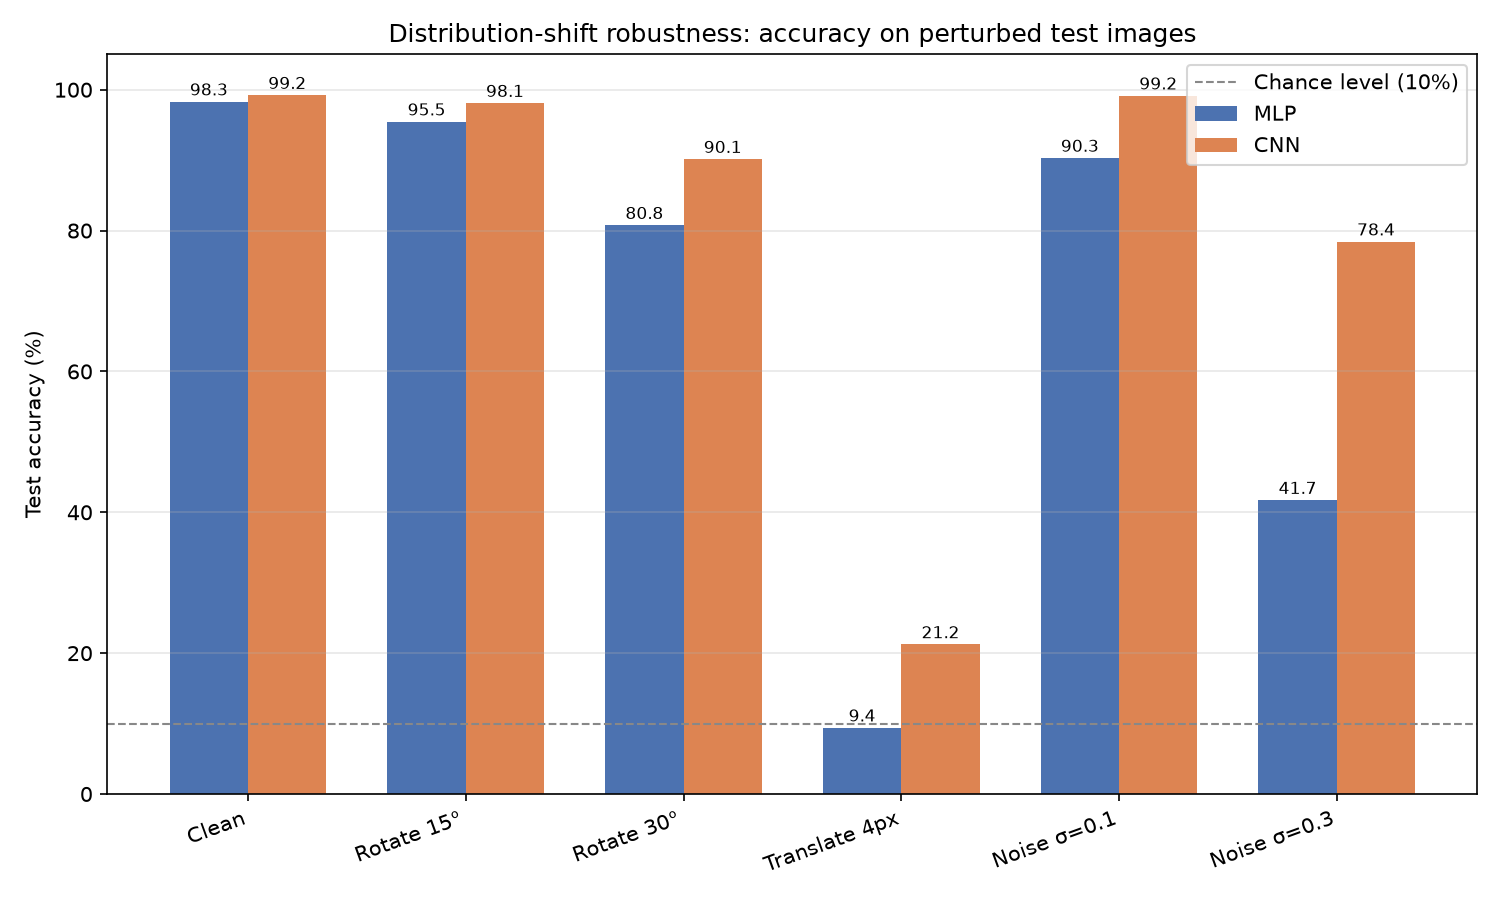
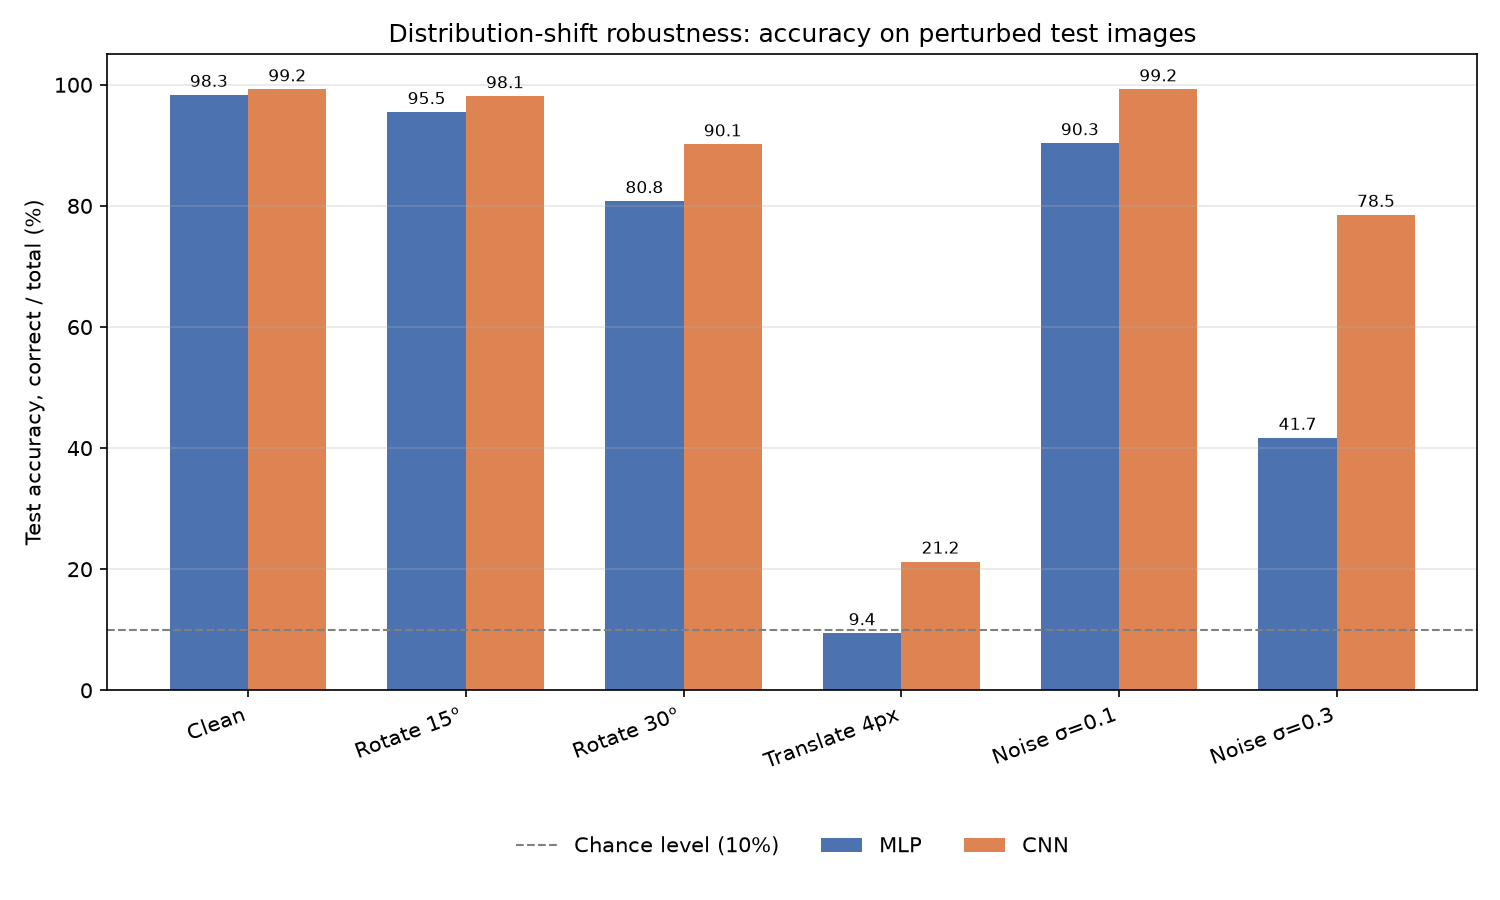
Add script regenerating the distribution-shift table and plot
The plotting code for results/shift_robustness.png wasn't in the repo. scripts/shift_robustness.py computes the seeded table from the committed checkpoints and redraws the plot (same design, y-axis labelled as plain accuracy, legend no longer covering a bar). A regression test pins the table to the README values.

diff --git a/scripts/shift_robustness.py b/scripts/shift_robustness.py
@@ -1,0 +1,92 @@
+"""Regenerates the distribution-shift results: evaluates the committed MLP and
+CNN checkpoints on clean and perturbed test images, prints the README table,
+and saves results/shift_robustness.png.
+
+Deterministic: run_shift_robustness seeds its noise, so the same checkpoints
+and data always give the same numbers. Needs the real data in data/train.csv.
+
+Usage:
+    python scripts/shift_robustness.py
+"""
+from __future__ import annotations
+
+import sys
+from dataclasses import replace
+from pathlib import Path
+
+import matplotlib
+
+matplotlib.use("Agg")
+import matplotlib.pyplot as plt
+
+PROJECT_ROOT = Path(__file__).resolve().parent.parent
+sys.path.insert(0, str(PROJECT_ROOT))
+
+from src.config import ExperimentConfig  # noqa: E402
+from src.data_module import MNISTDataModule  # noqa: E402
+from src.model import load_model  # noqa: E402
+from src.robustness import run_shift_robustness  # noqa: E402
+
+MODELS = {
+    "MLP": ("configs/best_from_search.yaml", "results/mlp_best_from_search.ckpt"),
+    "CNN": ("configs/cnn_best_from_search.yaml", "results/cnn_best_from_search.ckpt"),
+}
+LABELS = {
+    "clean": "Clean",
+    "rotate_15deg": "Rotate 15°",
+    "rotate_30deg": "Rotate 30°",
+    "translate_4px": "Translate 4px",
+    "noise_sigma0.1": "Noise σ=0.1",  # noqa: RUF001 (Greek sigma, as in the README)
+    "noise_sigma0.3": "Noise σ=0.3",  # noqa: RUF001
+}
+COLORS = {"MLP": "#4C72B0", "CNN": "#DD8452"}
+OUTPUT = PROJECT_ROOT / "results" / "shift_robustness.png"
+
+
+def compute() -> dict[str, dict[str, float]]:
+    results = {}
+    for name, (config_path, checkpoint) in MODELS.items():
+        config = ExperimentConfig.from_yaml(PROJECT_ROOT / config_path)
+        data_config = replace(config.data, data_dir=str(PROJECT_ROOT / config.data.data_dir), num_workers=0)
+        data_module = MNISTDataModule(data_config)
+        data_module.setup()
+        model = load_model(config, str(PROJECT_ROOT / checkpoint))
+        results[name] = run_shift_robustness(model, data_module.test_dataloader())
+    return results
+
+
+def plot(results: dict[str, dict[str, float]], output: Path) -> None:
+    keys = list(LABELS)
+    width = 0.36
+    fig, ax = plt.subplots(figsize=(10, 6))
+    for i, (name, scores) in enumerate(results.items()):
+        xs = [k + (i - 0.5) * width for k in range(len(keys))]
+        values = [scores[key] * 100 for key in keys]
+        bars = ax.bar(xs, values, width, label=name, color=COLORS[name])
+        ax.bar_label(bars, fmt="%.1f", padding=2, fontsize=8)
+    ax.axhline(10, color="gray", linestyle="--", linewidth=1, label="Chance level (10%)")
+    ax.set_xticks(range(len(keys)), [LABELS[key] for key in keys], rotation=20, ha="right")
+    ax.set_ylabel("Test accuracy, correct / total (%)")
+    ax.set_ylim(0, 105)
+    ax.set_title("Distribution-shift robustness: accuracy on perturbed test images")
+    ax.grid(axis="y", alpha=0.3)
+    ax.legend(loc="upper center", bbox_to_anchor=(0.5, -0.2), ncol=3, frameon=False)
+    fig.tight_layout()
+    fig.savefig(output, dpi=150)
+
+
+def main() -> None:
+    # Windows consoles default to a legacy code page that can't print the
+    # Greek sigma or the degree sign in the labels.
+    sys.stdout.reconfigure(encoding="utf-8")
+    results = compute()
+    print("| Perturbation | " + " | ".join(results) + " |")
+    print("|---|" + "---|" * len(results))
+    for key, label in LABELS.items():
+        print(f"| {label} | " + " | ".join(f"{scores[key]:.2%}" for scores in results.values()) + " |")
+    plot(results, OUTPUT)
+    print(f"Saved {OUTPUT.relative_to(PROJECT_ROOT)}")
+
+
+if __name__ == "__main__":
+    main()

diff --git a/tests/test_regression.py b/tests/test_regression.py
@@ -1,6 +1,7 @@
 """Regression tests: the committed checkpoints, evaluated on the real Kaggle
-data, must still reproduce the test-set numbers published in the README, and
-predict() must still recognise real digits redrawn as photo-like images.
+data, must still reproduce the numbers published in the README (the results
+table and the seeded distribution-shift table), and predict() must still
+recognise real digits redrawn as photo-like images.
 
 Needs data/train.csv, so it is skipped in CI and on fresh clones; run it
 locally after any change to data loading, cleaning, splitting or the model.
@@ -18,6 +19,7 @@ from src.config import ExperimentConfig
 from src.data_module import MNISTDataModule
 from src.model import load_model
 from src.predict import predict
+from src.robustness import run_shift_robustness
 from tests.conftest import REPO_ROOT
 
 DATA_DIR = REPO_ROOT / "data"
@@ -86,3 +88,25 @@ def test_predict_handles_photo_like_images(architecture):
         correct += predict(model, page).argmax().item() == label
 
     assert correct / n >= 0.98
+
+
+# Exactly as published in the README's distribution-shift table (plain accuracy, %).
+README_SHIFT_RESULTS = {
+    "mlp": {"clean": 98.31, "rotate_15deg": 95.46, "rotate_30deg": 80.76, "translate_4px": 9.42,
+            "noise_sigma0.1": 90.33, "noise_sigma0.3": 41.68},
+    "cnn": {"clean": 99.23, "rotate_15deg": 98.10, "rotate_30deg": 90.14, "translate_4px": 21.24,
+            "noise_sigma0.1": 99.23, "noise_sigma0.3": 78.50},
+}
+
+
+@pytest.mark.parametrize("architecture", list(README_SHIFT_RESULTS))
+def test_shift_robustness_reproduces_readme_table(architecture):
+    expected = README_RESULTS[architecture]
+    config = ExperimentConfig.from_yaml(REPO_ROOT / expected["config"])
+    data_module = MNISTDataModule(replace(config.data, data_dir=str(DATA_DIR), num_workers=0))
+    data_module.setup()
+    model = load_model(config, str(REPO_ROOT / expected["checkpoint"]))
+
+    results = run_shift_robustness(model, data_module.test_dataloader())
+
+    assert {name: round(value * 100, 2) for name, value in results.items()} == README_SHIFT_RESULTS[architecture]
